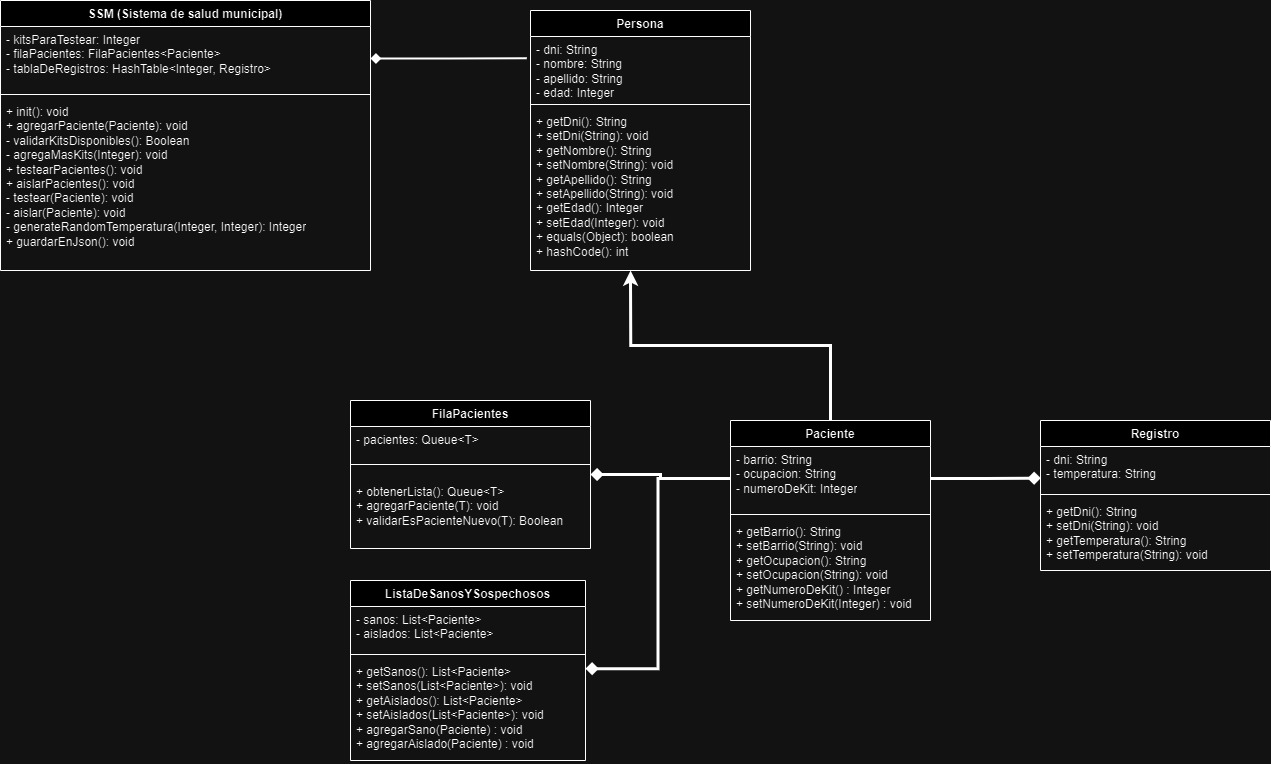
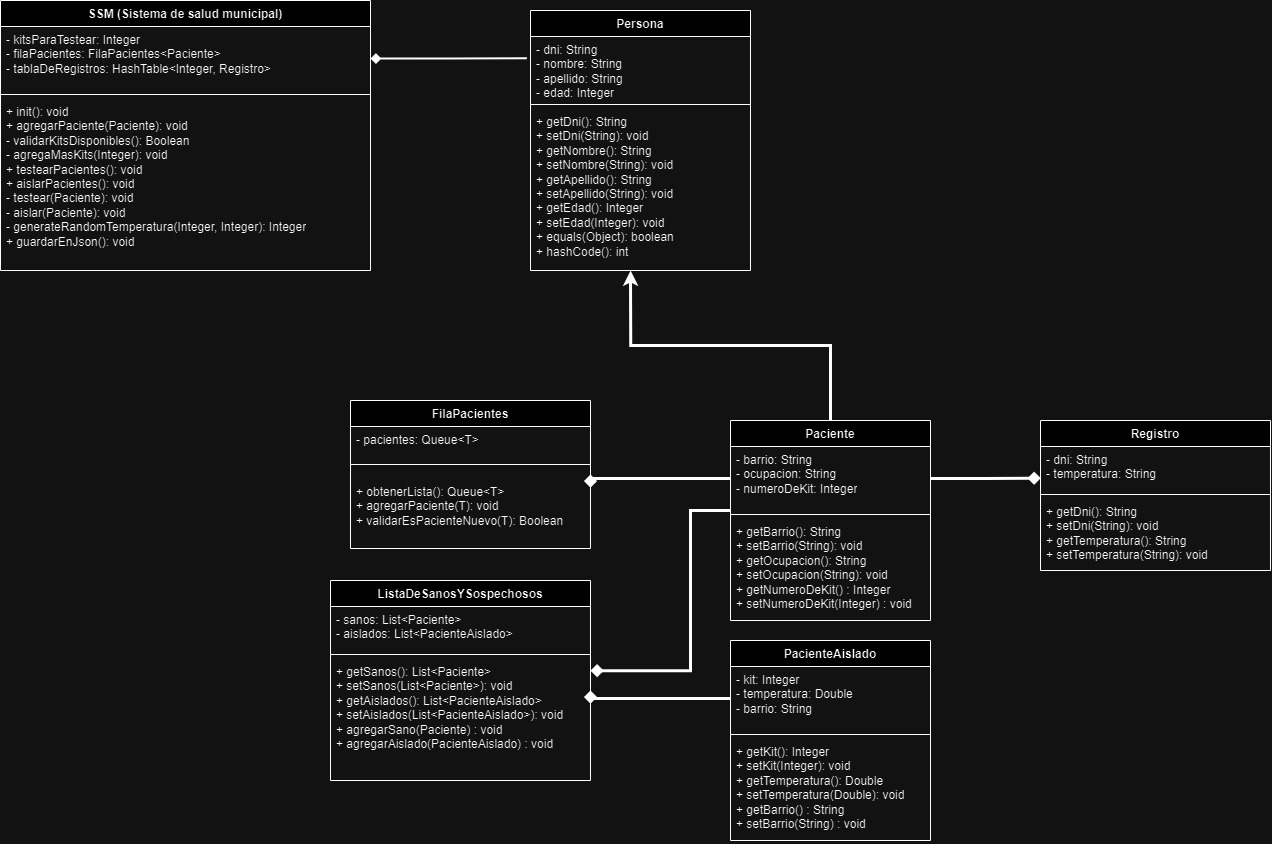
fix: no se guardaba como se pedia los aislados en el json

diff --git a/segundoParcialMartinJaime/src/SSM.java b/segundoParcialMartinJaime/src/SSM.java
@@ -5,6 +5,7 @@ import exceptions.ECovidPositivo;
 import exceptions.EElPacienteYaExistente;
 import exceptions.ESinKitParaTestear;
 import model.Paciente;
+import model.PacienteAislado;
 import model.Registro;
 
 import java.io.File;
@@ -112,7 +113,7 @@ public class SSM {
 
     private void validarCovidPositivo(Registro registro) throws ECovidPositivo {
         if(registro.getTemperatura() >= 38) {
-            throw new ECovidPositivo("Es un caso de covid positivo");
+            throw new ECovidPositivo("Es un caso de covid positivo", registro.getTemperatura());
         }
     }
 
@@ -122,16 +123,18 @@ public class SSM {
             File archivo = new File("sanosYSospechosos.json");
 
             ListaDeSanosYSospechosos lista = new ListaDeSanosYSospechosos();
+            Registro registro;
 
             for (Paciente paciente : filaPacientes.obtenerLista()) {
                 try {
-                    Registro registro = (Registro) tablaDeRegistros.get(paciente.getNumeroDeKit());
+                    registro = (Registro) tablaDeRegistros.get(paciente.getNumeroDeKit());
                     validarCovidPositivo(registro);
 
                     //
                     lista.agregarSano(paciente);
                 } catch (ECovidPositivo e) {
-                    lista.agregarAislado(paciente);
+                    PacienteAislado pacienteAislado = new PacienteAislado(paciente.getNumeroDeKit(), e.getTemperatura(), paciente.getBarrio());
+                    lista.agregarAislado(pacienteAislado);
                 }
 
 

diff --git a/segundoParcialMartinJaime/src/ListaDeSanosYSospechosos.java b/segundoParcialMartinJaime/src/ListaDeSanosYSospechosos.java
@@ -1,5 +1,6 @@
 import com.fasterxml.jackson.annotation.JsonProperty;
 import model.Paciente;
+import model.PacienteAislado;
 
 import java.util.ArrayList;
 import java.util.List;
@@ -9,7 +10,7 @@ public class ListaDeSanosYSospechosos {
     @JsonProperty("sanos")
     private List<Paciente> sanos = new ArrayList<>();
     @JsonProperty("aislados")
-    private List<Paciente> aislados = new ArrayList<>();
+    private List<PacienteAislado> aislados = new ArrayList<>();
 
 
     // region Getters & Setters
@@ -21,11 +22,11 @@ public class ListaDeSanosYSospechosos {
         this.sanos = sanos;
     }
 
-    public List<Paciente> getAislados() {
+    public List<PacienteAislado> getAislados() {
         return aislados;
     }
 
-    public void setAislados(List<Paciente> aislados) {
+    public void setAislados(List<PacienteAislado> aislados) {
         this.aislados = aislados;
     }
     // endregion
@@ -34,7 +35,7 @@ public class ListaDeSanosYSospechosos {
         sanos.add(paciente);
     }
 
-    public void agregarAislado(Paciente paciente) {
+    public void agregarAislado(PacienteAislado paciente) {
         aislados.add(paciente);
     }
 

diff --git a/segundoParcialMartinJaime/src/model/PacienteAislado.java b/segundoParcialMartinJaime/src/model/PacienteAislado.java
@@ -1,0 +1,39 @@
+package model;
+
+public class PacienteAislado {
+    private Integer kit;
+    private Double temperatura;
+    private String barrio;
+
+    public PacienteAislado(Integer kit, Double temperatura, String barrio) {
+        this.kit = kit;
+        this.temperatura = temperatura;
+        this.barrio = barrio;
+    }
+
+    // region Getters & Setters
+    public Integer getKit() {
+        return kit;
+    }
+
+    public void setKit(Integer kit) {
+        this.kit = kit;
+    }
+
+    public Double getTemperatura() {
+        return temperatura;
+    }
+
+    public void setTemperatura(Double temperatura) {
+        this.temperatura = temperatura;
+    }
+
+    public String getBarrio() {
+        return barrio;
+    }
+
+    public void setBarrio(String barrio) {
+        this.barrio = barrio;
+    }
+    // endregion
+}

diff --git a/segundoParcialMartinJaime/src/exceptions/ECovidPositivo.java b/segundoParcialMartinJaime/src/exceptions/ECovidPositivo.java
@@ -1,7 +1,23 @@
 package exceptions;
 
 public class ECovidPositivo extends Exception {
+    private Double temperatura;
+
     public ECovidPositivo(String message) {
         super(message);
+    }
+
+    public ECovidPositivo(String message, Double temperatura) {
+        super(message);
+        this.temperatura = temperatura;
+
+    }
+
+    public Double getTemperatura() {
+        return this.temperatura;
+    }
+
+    public void setTemperatura(Double temperatura) {
+        this.temperatura = temperatura;
     }
 }

diff --git a/segundoParcialMartinJaime/src/Main.java b/segundoParcialMartinJaime/src/Main.java
@@ -1,7 +1,3 @@
-import model.Paciente;
-
-import java.util.PriorityQueue;
-import java.util.Queue;
 
 public class Main {
     public static void main(String[] args) {
